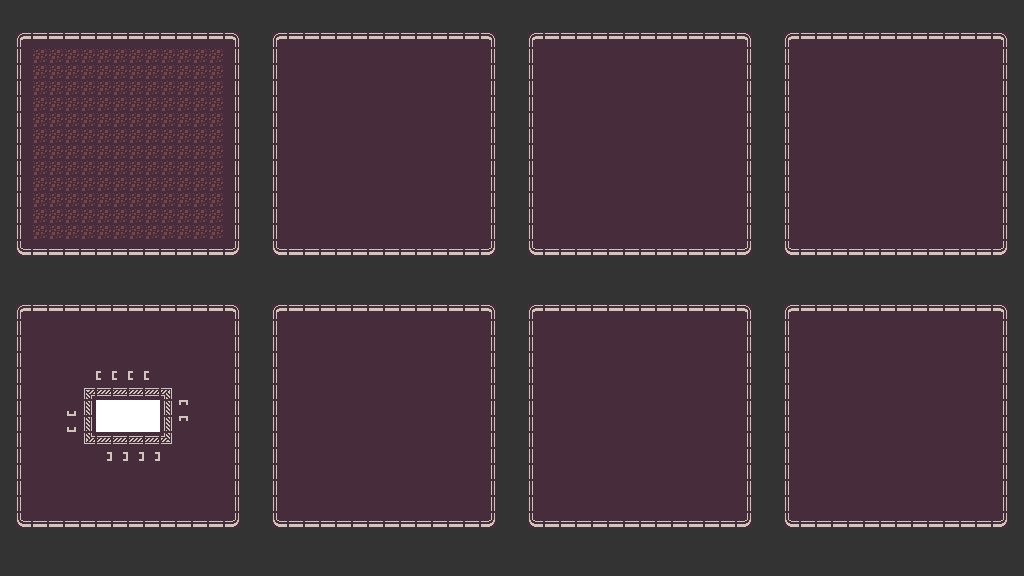
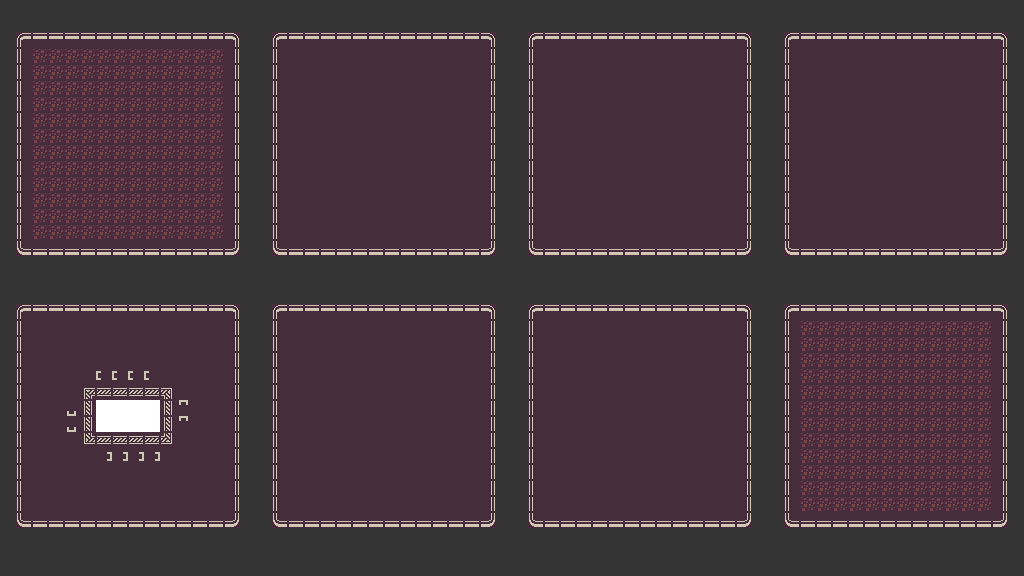
feat: titanium miner

Changed region(s): [[0.7812, 0.5625, 0.9688, 0.9062]]

diff --git a/src/ui/building-menubar.js b/src/ui/building-menubar.js
@@ -106,6 +106,10 @@ const buildingMenuBar = {
       name: 'IRON-MINER_MENU_ITEM',
       child: true
     });
+    const titaniumMinerMenuItem = createButton({
+      name: 'TITANIUM-MINER_MENU_ITEM',
+      child: true
+    });
 
     const assemblerMenu = createButton({
       name: 'ASSEMBLER_MENU'
@@ -150,7 +154,7 @@ const buildingMenuBar = {
     menuHierarchy.MINER_MENU = {
       grid: minerMenuGrid,
       parent: minerMenu,
-      children: [copperMinerMenuItem, ironMinerMenuItem]
+      children: [copperMinerMenuItem, ironMinerMenuItem, titaniumMinerMenuItem]
     };
     menuHierarchy.ASSEMBLER_MENU = {
       grid: assmeblerMenuGrid,

diff --git a/src/constants.js b/src/constants.js
@@ -16,7 +16,7 @@ export const TYPES = {
   FILTER: 10,
   RECIPE: 11
 };
-export const COMPONENTS = ['COPPER', 'IRON', 'WIRE', 'CIRCUIT'];
+export const COMPONENTS = ['COPPER', 'IRON', 'TITANIUM', 'WIRE', 'CIRCUIT'];
 // dir values by name, degree, and radian
 const RIGHT = { row: 0, col: 1 };
 const DOWN = { row: 1, col: 0 };
@@ -139,6 +139,20 @@ export const COSTS = {
     {
       name: 'COPPER',
       total: 10
+    }
+  ],
+  'TITANIUM-MINER': [
+    {
+      name: 'COPPER',
+      total: 50
+    },
+    {
+      name: 'IRON',
+      total: 25
+    },
+    {
+      name: 'CIRCUIT',
+      total: 25
     }
   ],
   ASSEMBLER: [

diff --git a/src/managers/miner-manager.js b/src/managers/miner-manager.js
@@ -1,13 +1,15 @@
 import { on } from '../libs/kontra';
 import CopperMiner from '../buildings/copper-miner';
 import IronMiner from '../buildings/iron-miner';
+import TitaniumMiner from '../buildings/titanium-miner';
 import { layers } from '../assets/tilemap.json';
 import { NUM_COLS } from '../constants';
 
 const miners = [];
 const Constructors = {
   'COPPER-MINER': CopperMiner,
-  'IRON-MINER': IronMiner
+  'IRON-MINER': IronMiner,
+  'TITANIUM-MINER': TitaniumMiner
 };
 
 const minerManager = {

diff --git a/src/buildings/titanium-miner.js b/src/buildings/titanium-miner.js
@@ -1,0 +1,10 @@
+import CopperMiner from './copper-miner';
+
+export default class TitaniumMiner extends CopperMiner {
+  constructor(properties) {
+    super(properties);
+
+    this.name = 'TITANIUM-MINER';
+    this.componentName = 'TITANIUM';
+  }
+}

diff --git a/src/managers/cursor-manager.js b/src/managers/cursor-manager.js
@@ -25,6 +25,7 @@ const managers = {
   IMPORT: beltManager,
   'COPPER-MINER': minerManager,
   'IRON-MINER': minerManager,
+  'TITANIUM-MINER': minerManager,
   MOVER: moverManager,
   ASSEMBLER: assemblerManager,
   REPAIRER: repairerManager

diff --git a/src/components/storage.js b/src/components/storage.js
@@ -3,6 +3,7 @@ import { COSTS } from '../constants';
 const componentStorage = {
   COPPER: 10,
   IRON: 50,
+  TITANIUM: 0,
   WIRE: 0,
   CIRCUIT: 0,
 
